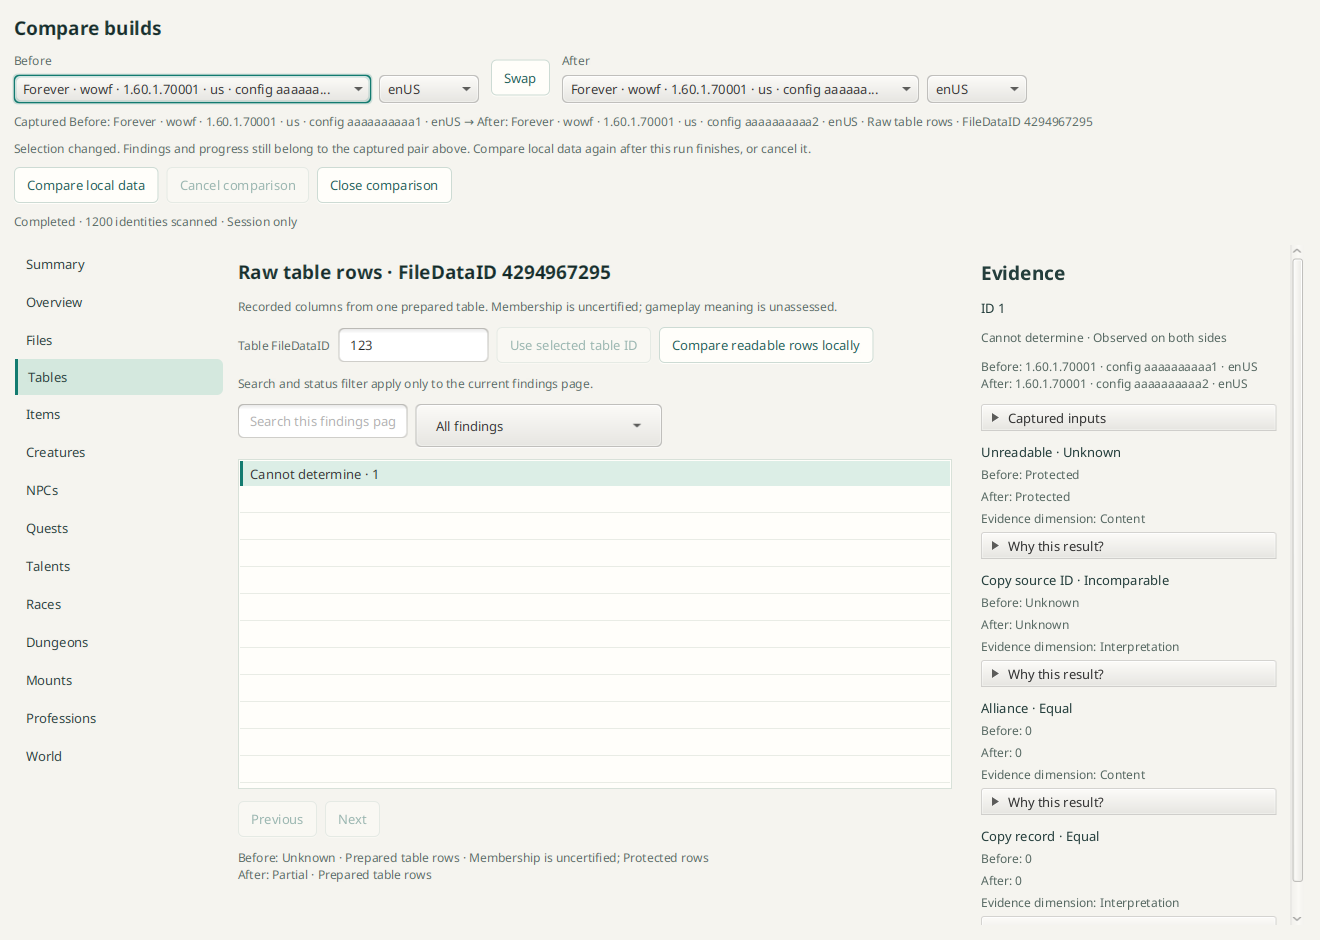
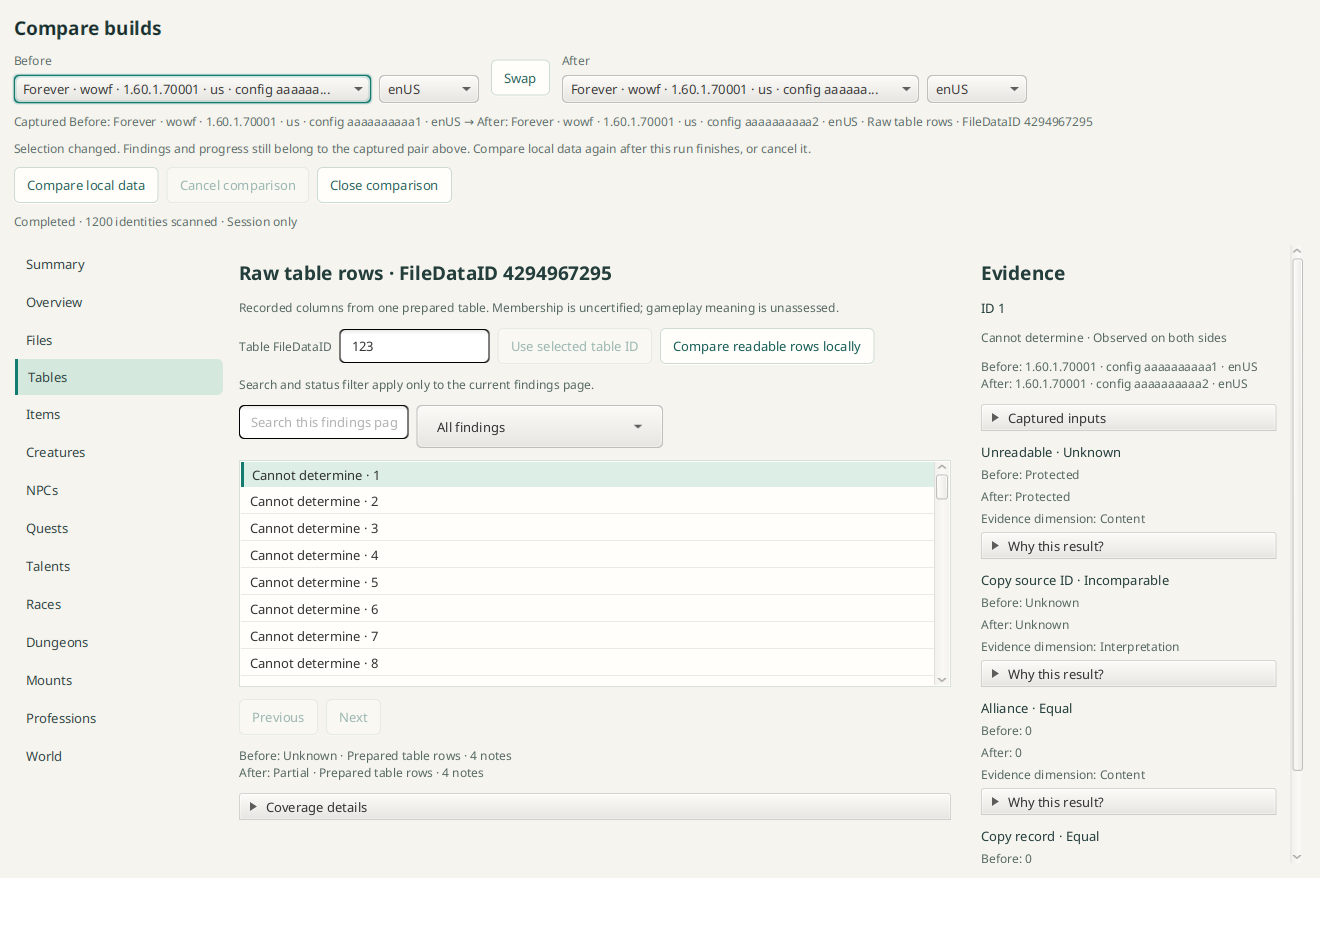
Refresh authored proof for compact comparison coverage

diff --git a/docs/comparison/view.md b/docs/comparison/view.md
@@ -69,3 +69,9 @@ all issue reasons, while exact scope fingerprints remain in evidence/tooltips.
 
 The image uses invented data, including a deliberate pending edit to demonstrate
 that the captured result is not relabeled. It contains no game assets or local data.
+
+Long coverage reports use compact per-side certainty/scope/note counts with a
+collapsed Coverage details disclosure. It retains every reason and exact scope in
+a bounded scrolling area. The findings pane retains at least 180 px; short windows
+scroll the center rather than squeezing results to one row. Authored 58-row tests
+with long explanations on both sides cover wide and narrow windows.
